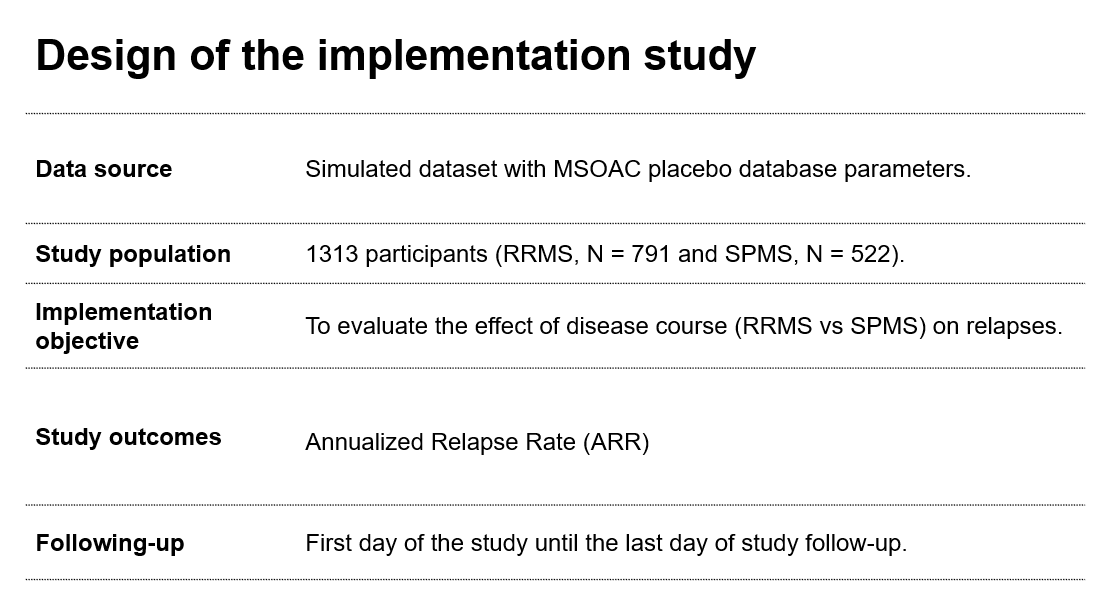
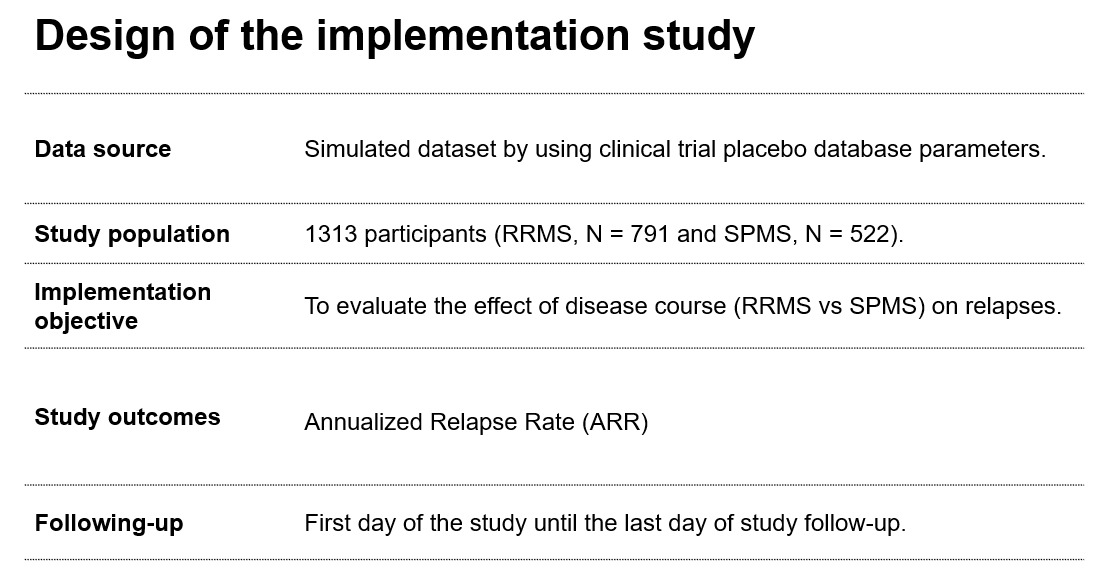
vignette update

diff --git a/docs/articles/simulated_data.html b/docs/articles/simulated_data.html
@@ -6,7 +6,7 @@
 <meta http-equiv="X-UA-Compatible" content="IE=edge">
 <meta name="viewport" content="width=device-width, initial-scale=1, shrink-to-fit=no">
 <meta name="description" content="revents">
-<title>02. Simulating data by using MSOAC parameters • revents</title>
+<title>02. Simulation of clinical trial data • revents</title>
 <!-- favicons --><link rel="icon" type="image/png" sizes="16x16" href="../favicon-16x16.png">
 <link rel="icon" type="image/png" sizes="32x32" href="../favicon-32x32.png">
 <link rel="apple-touch-icon" type="image/png" sizes="180x180" href="../apple-touch-icon.png">
@@ -17,7 +17,7 @@
 <link href="../deps/bootstrap-5.3.1/bootstrap.min.css" rel="stylesheet">
 <script src="../deps/bootstrap-5.3.1/bootstrap.bundle.min.js"></script><!-- Font Awesome icons --><link rel="stylesheet" href="https://cdnjs.cloudflare.com/ajax/libs/font-awesome/5.12.1/css/all.min.css" integrity="sha256-mmgLkCYLUQbXn0B1SRqzHar6dCnv9oZFPEC1g1cwlkk=" crossorigin="anonymous">
 <link rel="stylesheet" href="https://cdnjs.cloudflare.com/ajax/libs/font-awesome/5.12.1/css/v4-shims.min.css" integrity="sha256-wZjR52fzng1pJHwx4aV2AO3yyTOXrcDW7jBpJtTwVxw=" crossorigin="anonymous">
-<!-- bootstrap-toc --><script src="https://cdn.jsdelivr.net/gh/afeld/bootstrap-toc@v1.0.1/dist/bootstrap-toc.min.js" integrity="sha256-4veVQbu7//Lk5TSmc7YV48MxtMy98e26cf5MrgZYnwo=" crossorigin="anonymous"></script><!-- headroom.js --><script src="https://cdnjs.cloudflare.com/ajax/libs/headroom/0.11.0/headroom.min.js" integrity="sha256-AsUX4SJE1+yuDu5+mAVzJbuYNPHj/WroHuZ8Ir/CkE0=" crossorigin="anonymous"></script><script src="https://cdnjs.cloudflare.com/ajax/libs/headroom/0.11.0/jQuery.headroom.min.js" integrity="sha256-ZX/yNShbjqsohH1k95liqY9Gd8uOiE1S4vZc+9KQ1K4=" crossorigin="anonymous"></script><!-- clipboard.js --><script src="https://cdnjs.cloudflare.com/ajax/libs/clipboard.js/2.0.6/clipboard.min.js" integrity="sha256-inc5kl9MA1hkeYUt+EC3BhlIgyp/2jDIyBLS6k3UxPI=" crossorigin="anonymous"></script><!-- search --><script src="https://cdnjs.cloudflare.com/ajax/libs/fuse.js/6.4.6/fuse.js" integrity="sha512-zv6Ywkjyktsohkbp9bb45V6tEMoWhzFzXis+LrMehmJZZSys19Yxf1dopHx7WzIKxr5tK2dVcYmaCk2uqdjF4A==" crossorigin="anonymous"></script><script src="https://cdnjs.cloudflare.com/ajax/libs/autocomplete.js/0.38.0/autocomplete.jquery.min.js" integrity="sha512-GU9ayf+66Xx2TmpxqJpliWbT5PiGYxpaG8rfnBEk1LL8l1KGkRShhngwdXK1UgqhAzWpZHSiYPc09/NwDQIGyg==" crossorigin="anonymous"></script><script src="https://cdnjs.cloudflare.com/ajax/libs/mark.js/8.11.1/mark.min.js" integrity="sha512-5CYOlHXGh6QpOFA/TeTylKLWfB3ftPsde7AnmhuitiTX4K5SqCLBeKro6sPS8ilsz1Q4NRx3v8Ko2IBiszzdww==" crossorigin="anonymous"></script><!-- pkgdown --><script src="../pkgdown.js"></script><meta property="og:title" content="02. Simulating data by using MSOAC parameters">
+<!-- bootstrap-toc --><script src="https://cdn.jsdelivr.net/gh/afeld/bootstrap-toc@v1.0.1/dist/bootstrap-toc.min.js" integrity="sha256-4veVQbu7//Lk5TSmc7YV48MxtMy98e26cf5MrgZYnwo=" crossorigin="anonymous"></script><!-- headroom.js --><script src="https://cdnjs.cloudflare.com/ajax/libs/headroom/0.11.0/headroom.min.js" integrity="sha256-AsUX4SJE1+yuDu5+mAVzJbuYNPHj/WroHuZ8Ir/CkE0=" crossorigin="anonymous"></script><script src="https://cdnjs.cloudflare.com/ajax/libs/headroom/0.11.0/jQuery.headroom.min.js" integrity="sha256-ZX/yNShbjqsohH1k95liqY9Gd8uOiE1S4vZc+9KQ1K4=" crossorigin="anonymous"></script><!-- clipboard.js --><script src="https://cdnjs.cloudflare.com/ajax/libs/clipboard.js/2.0.6/clipboard.min.js" integrity="sha256-inc5kl9MA1hkeYUt+EC3BhlIgyp/2jDIyBLS6k3UxPI=" crossorigin="anonymous"></script><!-- search --><script src="https://cdnjs.cloudflare.com/ajax/libs/fuse.js/6.4.6/fuse.js" integrity="sha512-zv6Ywkjyktsohkbp9bb45V6tEMoWhzFzXis+LrMehmJZZSys19Yxf1dopHx7WzIKxr5tK2dVcYmaCk2uqdjF4A==" crossorigin="anonymous"></script><script src="https://cdnjs.cloudflare.com/ajax/libs/autocomplete.js/0.38.0/autocomplete.jquery.min.js" integrity="sha512-GU9ayf+66Xx2TmpxqJpliWbT5PiGYxpaG8rfnBEk1LL8l1KGkRShhngwdXK1UgqhAzWpZHSiYPc09/NwDQIGyg==" crossorigin="anonymous"></script><script src="https://cdnjs.cloudflare.com/ajax/libs/mark.js/8.11.1/mark.min.js" integrity="sha512-5CYOlHXGh6QpOFA/TeTylKLWfB3ftPsde7AnmhuitiTX4K5SqCLBeKro6sPS8ilsz1Q4NRx3v8Ko2IBiszzdww==" crossorigin="anonymous"></script><!-- pkgdown --><script src="../pkgdown.js"></script><meta property="og:title" content="02. Simulation of clinical trial data">
 <meta property="og:description" content="revents">
 <meta property="og:image" content="https://davidherman94.github.io/revents/logo.png">
 <!-- mathjax --><script src="https://cdnjs.cloudflare.com/ajax/libs/mathjax/2.7.5/MathJax.js" integrity="sha256-nvJJv9wWKEm88qvoQl9ekL2J+k/RWIsaSScxxlsrv8k=" crossorigin="anonymous"></script><script src="https://cdnjs.cloudflare.com/ajax/libs/mathjax/2.7.5/config/TeX-AMS-MML_HTMLorMML.js" integrity="sha256-84DKXVJXs0/F8OTMzX4UR909+jtl4G7SPypPavF+GfA=" crossorigin="anonymous"></script><!--[if lt IE 9]>
@@ -75,7 +75,7 @@
 <script src="simulated_data_files/kePrint-0.0.1/kePrint.js"></script><link href="simulated_data_files/lightable-0.0.1/lightable.css" rel="stylesheet">
 <div class="row">
   <main id="main" class="col-md-9"><div class="page-header">
-      <img src="../logo.png" class="logo" alt=""><h1>02. Simulating data by using MSOAC parameters</h1>
+      <img src="../logo.png" class="logo" alt=""><h1>02. Simulation of clinical trial data</h1>
                         <h4 data-toc-skip class="author">Quentin
 Pilard</h4>
             
@@ -86,11 +86,11 @@ Pilard</h4>
 
     
     
-<p>For applying the models, simulated data from the MSOAC was used. The
-following code simulates recurrent event data for <strong>relapses in
-RRMS and SPMS patients</strong>. The data is then combined with baseline
-characteristics for RRMS and SPMS patients. The simulated data is saved
-as a CSV file for further use.</p>
+<p>For applying the models, simulated data from clinical trials was
+used. The following code simulates recurrent event data for
+<strong>relapses in RRMS and SPMS patients</strong>. The data is then
+combined with baseline characteristics for RRMS and SPMS patients. The
+simulated data is saved as a CSV file for further use.</p>
 <div class="sourceCode" id="cb1"><pre class="downlit sourceCode r">
 <code class="sourceCode R"><span><span class="kw"><a href="https://rdrr.io/r/base/library.html" class="external-link">library</a></span><span class="op">(</span><span class="va"><a href="https://dplyr.tidyverse.org" class="external-link">dplyr</a></span><span class="op">)</span></span>
 <span><span class="kw"><a href="https://rdrr.io/r/base/library.html" class="external-link">library</a></span><span class="op">(</span><span class="va"><a href="https://purrr.tidyverse.org/" class="external-link">purrr</a></span><span class="op">)</span></span>

diff --git a/docs/articles/index.html b/docs/articles/index.html
@@ -52,7 +52,7 @@
 
       <dl><dt><a href="revents.html">01. Recurrent events methods: definition and outcomes in multiple sclerosis</a></dt>
         <dd>
-        </dd><dt><a href="simulated_data.html">02. Simulating data by using MSOAC parameters</a></dt>
+        </dd><dt><a href="simulated_data.html">02. Simulation of clinical trial data</a></dt>
         <dd>
         </dd><dt><a href="descriptive_analyses.html">03. Descriptive analyses in recurrent event endpoints</a></dt>
         <dd>

diff --git a/README.md b/README.md
@@ -7,9 +7,9 @@
 
 The goal of revents is make all the recurrent event functions for
 non-terminal events available for analysing recurrent events in chronic
-diseases. It is based on the master’s thesis: “Analysing recurrent
-events in Multiple Sclerosis: overview of statistical models with
-application in the MSOAC database”.
+diseases. It is partially based on the master’s thesis: “Analysing
+recurrent events in Multiple Sclerosis: overview of statistical models
+with application in the MSOAC database”.
 
 ## Installation
 
